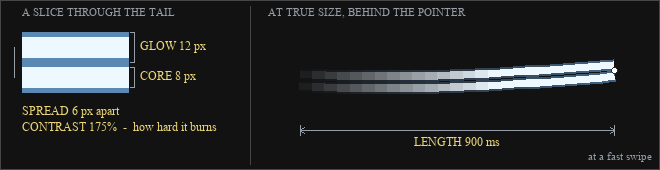
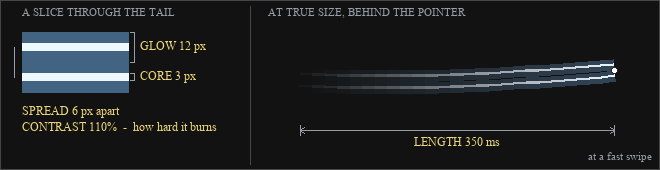
G9 Mouse: trail test paints over its own backdrop, no longer flaky on a busy desktop

diff --git a/test_trail.py b/test_trail.py
@@ -66,6 +66,47 @@ def grab(x, y, w, h):
     return img
 
 
+class Backdrop(object):
+    """An opaque black sheet under the test region.
+
+    The measurements here are screen diffs, so ANYTHING that repaints inside
+    the rectangle lands in the result: a window moving through it made every
+    check report zero, and a repaint during one pair of grabs turned a red tail
+    into rgb(31,104,104). Laying down our own quiet surface first makes the
+    overlay the only thing that can change those pixels, without weakening the
+    check - the tail still has to paint on a real screen, over a real window."""
+
+    def __init__(self, x, y, w, h):
+        self.hwnd = None
+        self.rect = (x, y, w, h)
+
+    def __enter__(self):
+        NT.NeonTrail()._register()              # same window class, already safe
+        x, y, w, h = self.rect
+        u32.CreateWindowExW.restype = wintypes.HWND
+        self.hwnd = u32.CreateWindowExW(
+            NT.WS_EX_LAYERED | NT.WS_EX_TRANSPARENT | NT.WS_EX_TOOLWINDOW |
+            NT.WS_EX_NOACTIVATE | NT.WS_EX_TOPMOST,
+            NT.NeonTrail.CLASS_NAME, None, NT.WS_POPUP, x, y, w, h,
+            None, None, None, None)
+        u32.SetLayeredWindowAttributes(self.hwnd, 0, 255, 0x00000002)  # LWA_ALPHA
+        u32.ShowWindow(self.hwnd, 8)            # SW_SHOWNA
+        u32.SetWindowPos(self.hwnd, ctypes.c_void_p(-1), x, y, w, h, 0x0010)
+        hdc = u32.GetDC(self.hwnd)
+        brush = g32.CreateSolidBrush(0x00101010)
+        r = wintypes.RECT(0, 0, w, h)
+        u32.FillRect(hdc, ctypes.byref(r), brush)
+        g32.DeleteObject(brush)
+        u32.ReleaseDC(self.hwnd, hdc)
+        time.sleep(0.45)
+        return self
+
+    def __exit__(self, *_):
+        if self.hwnd:
+            u32.DestroyWindow(self.hwnd)
+        time.sleep(0.25)
+
+
 def arc(cx, cy, r, a0, a1, n):
     return [(int(cx + r * math.cos(math.radians(a))),
              int(cy + r * math.sin(math.radians(a))))
@@ -80,6 +121,8 @@ def main():
     x0, y0, w, h = cx - r - 60, cy - r - 60, 2 * (r + 60), 2 * (r + 60)
 
     trail = NT.NeonTrail()
+    backdrop = Backdrop(x0, y0, w, h)
+    backdrop.__enter__()
     try:
         before = grab(x0, y0, w, h)
 
@@ -165,6 +208,7 @@ def main():
     finally:
         trail.hide()
         trail.destroy()
+        backdrop.__exit__()
         time.sleep(0.2)
 
     # ------------------------------------------------------------ live reload
@@ -187,6 +231,10 @@ def main():
                        and after_cfg["contrast"] == 175))
     finally:
         open(CE.SETTINGS, "w", encoding="utf-8").write(saved)
+        # The preview PNG is an artifact too. Restoring only the settings left
+        # the panel's picture showing this test's throwaway numbers on disk.
+        import cursor_cli as CLI
+        CLI.render_trail_preview(CLI.load_settings()["trail"])
 
     bad = 0
     for label, ok in checks:
